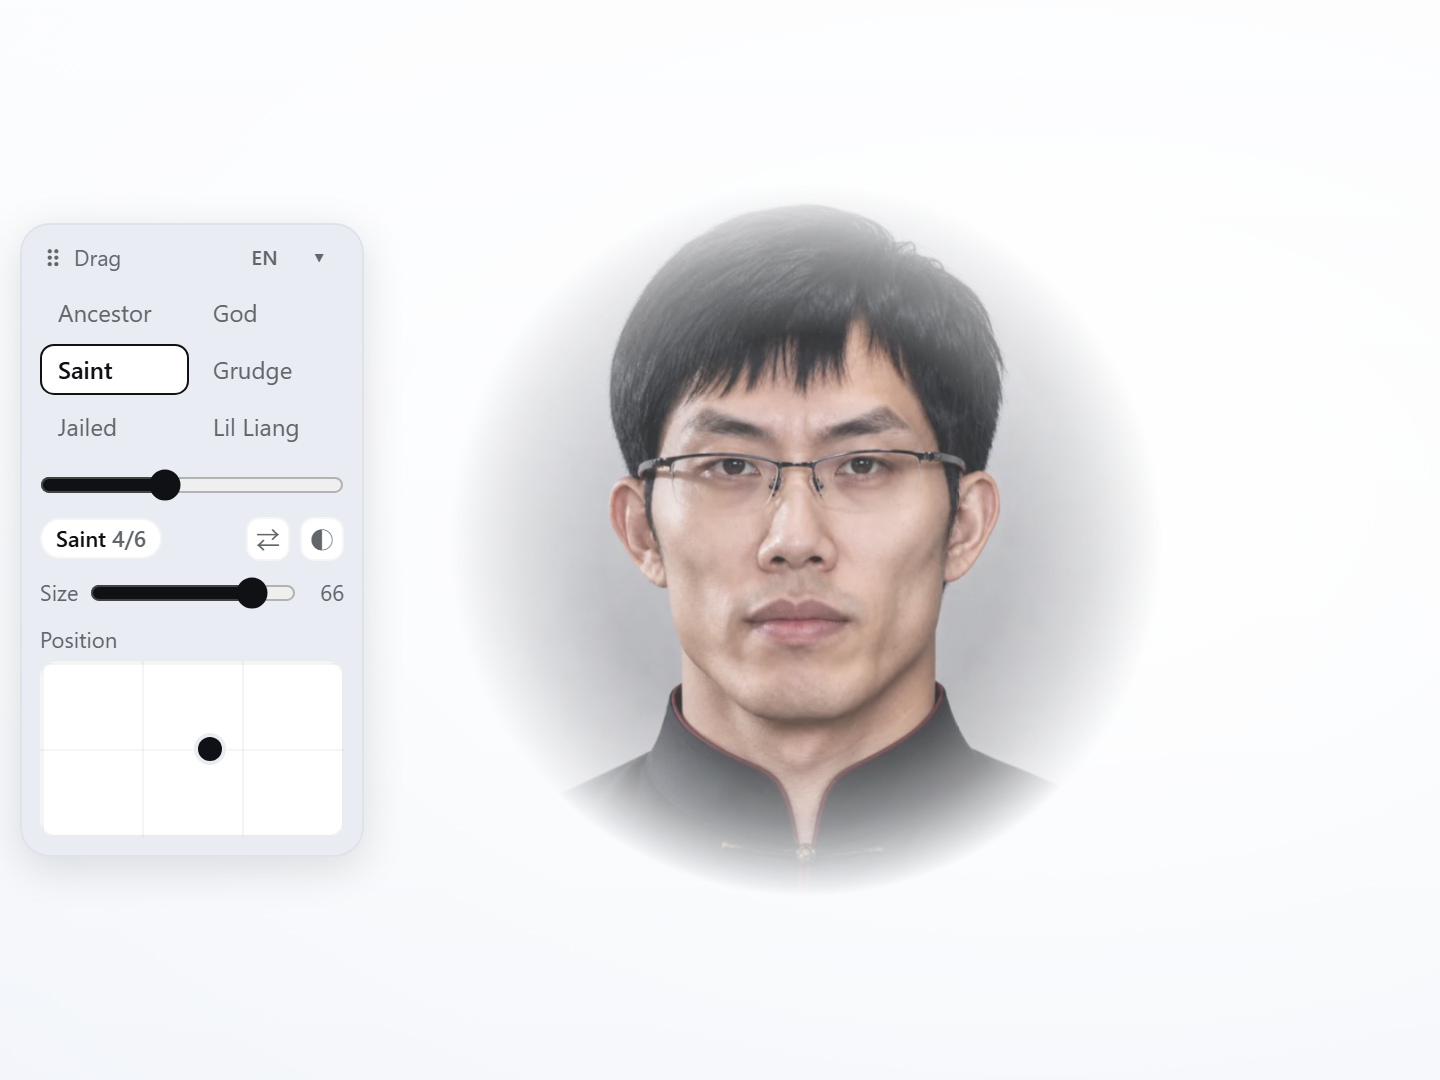
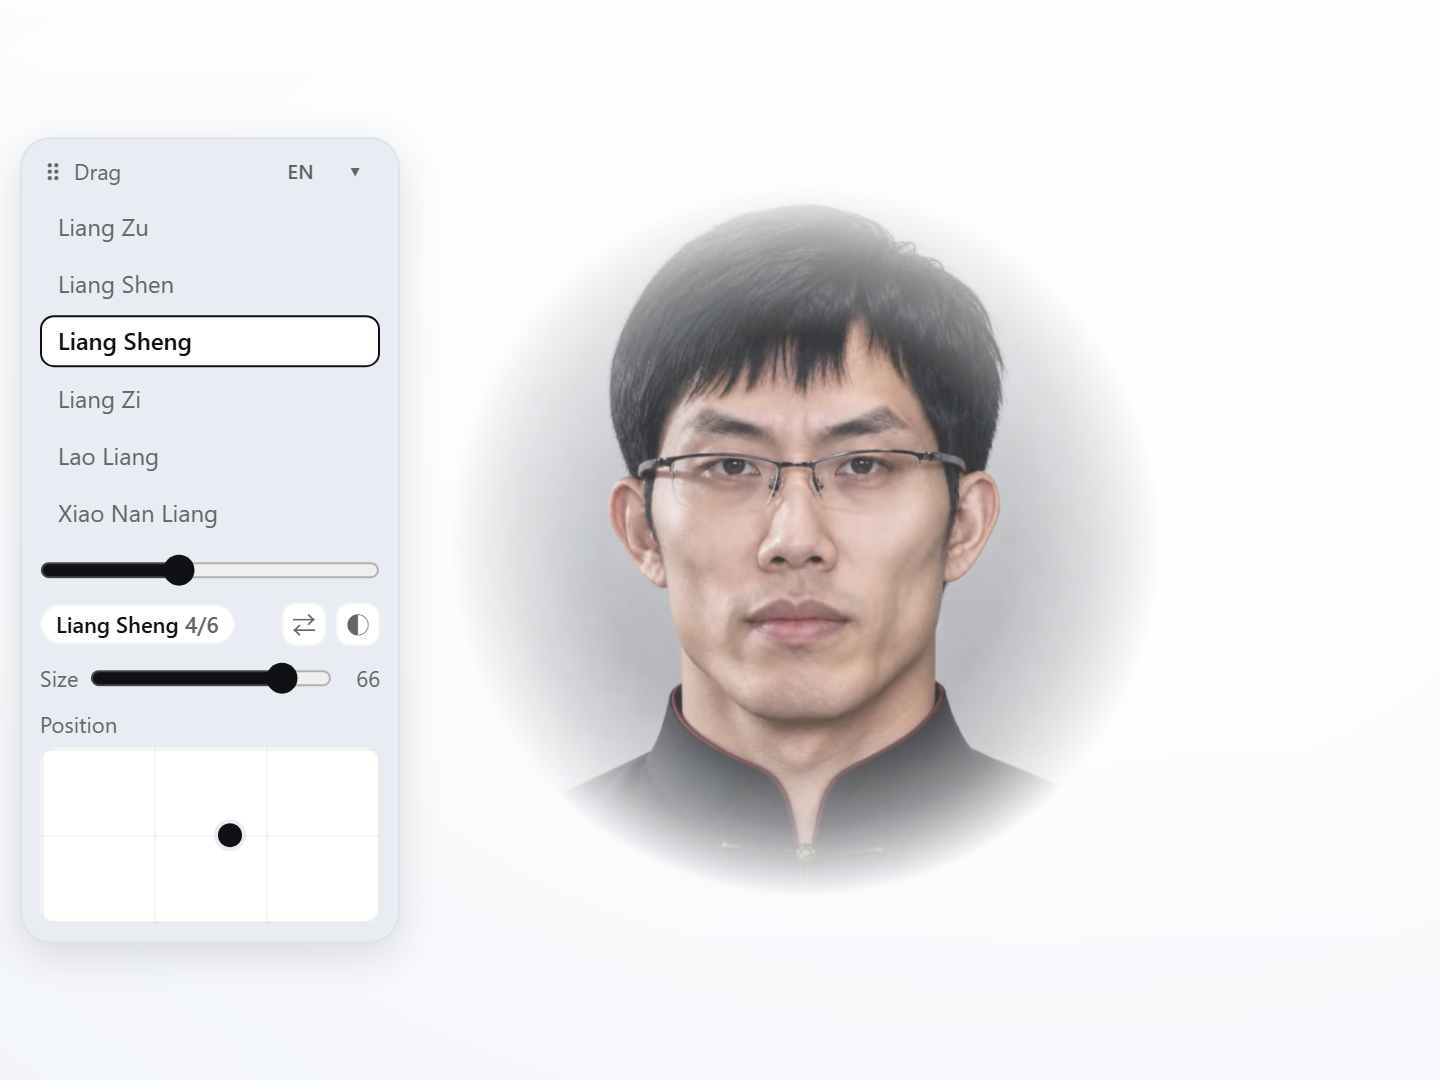
feat: 英文状态名改用拼音，英文面板改单列
- 六级状态名英文由意译改为拼音：Xiao Nan Liang / Lao Liang / Liang Zi / Liang Sheng / Liang Shen / Liang Zu
- 拼音较长，[data-lang=en] 下 chips 单列、面板 190px（收起 152px）
- 重新生成中英文界面截图
- README 中英文对照表与英文示意同步

diff --git a/client.js b/client.js
@@ -196,12 +196,12 @@ window.__ModuleLoader__.load({
       'lang.name.auto': 'Auto',
       'lang.name.zh': '中文',
       'lang.name.en': 'English',
-      'stage.0': 'Lil Liang',
-      'stage.1': 'Jailed',
-      'stage.2': 'Grudge',
-      'stage.3': 'Saint',
-      'stage.4': 'God',
-      'stage.5': 'Ancestor',
+      'stage.0': 'Xiao Nan Liang',
+      'stage.1': 'Lao Liang',
+      'stage.2': 'Liang Zi',
+      'stage.3': 'Liang Sheng',
+      'stage.4': 'Liang Shen',
+      'stage.5': 'Liang Zu',
     };
 
     const LANG_CYCLE = ['auto', 'zh', 'en'];
@@ -291,6 +291,11 @@ window.__ModuleLoader__.load({
         gap: 0;
         padding: 7px 9px;
       }
+      /* Pinyin stage names are longer than the Chinese two/three characters, so
+         the English panel goes single-column and takes a little more width. */
+      .lbd-card[data-lang="en"] { width: 190px; }
+      .lbd-card[data-lang="en"] .lbd-chips { grid-template-columns: minmax(0, 1fr); }
+      .lbd-card[data-lang="en"][data-collapsed="true"] { width: 152px; }
       .lbd-card[data-collapsed="true"] .lbd-chips,
       .lbd-card[data-collapsed="true"] .lbd-range,
       .lbd-card[data-collapsed="true"] .lbd-meta,

diff --git a/README.md b/README.md
@@ -76,16 +76,18 @@ A  →  中  →  EN  →  A …
 - **中文 / English**：固定面板语言，覆盖 DSH 的全局设置，适合系统是英文但想用中文名字，或者反过来
 - 选择存在 `localStorage`，刷新、重启都记得
 
-六级状态名在两种语言下的对照（英文是给窄面板用的短标签，右侧是原意）：
+六级状态名在两种语言下的对照（英文界面保留拼音，这些梗翻译就没了；右侧是原意）：
 
 | 等级 | 中文 | English | 含义 |
 |---|---|---|---|
-| 1 | 小难梁 | Lil Liang | 刚入门的梁 |
-| 2 | 牢梁 | Jailed | 被关起来的梁 |
-| 3 | 梁子 | Grudge | 「结梁子」的梁 |
-| 4 | 梁圣 | Saint | 封圣的梁 |
-| 5 | 梁神 | God | 封神的梁 |
-| 6 | 梁祖 | Ancestor | 祖宗的梁 |
+| 1 | 小难梁 | Xiao Nan Liang | 刚入门的梁 |
+| 2 | 牢梁 | Lao Liang | 被关起来的梁 |
+| 3 | 梁子 | Liang Zi | 「结梁子」的梁 |
+| 4 | 梁圣 | Liang Sheng | 封圣的梁 |
+| 5 | 梁神 | Liang Shen | 封神的梁 |
+| 6 | 梁祖 | Liang Zu | 祖宗的梁 |
+
+拼音比中文名长，所以英文面板会把六个状态排成一列（面板也略宽一点），中文面板仍是两列。
 
 ### 数据
 
@@ -149,29 +151,32 @@ dsh plugin --profile desktop remove dsh-liang-backdrop
 The panel opens against the left edge, vertically centred. Drag it by the `⠿` grip, double-click to reset.
 
 ```
-⠿ Drag                        A  ▾
-┌────────┬────────┐
-│ Ancestor│  God   │  ← six stages, click to switch
-│ Saint  │ Grudge │
-│ Jailed │Lil Liang│
-└────────┴────────┘
-━━━━━●━━━━━                    ← level slider
-Saint 4/6              ⇄  ◐
-Size ━━━●━━ 42                 ← backdrop size (vmin)
+⠿ Drag                            A  ▾
+┌──────────────┐
+│ Liang Zu     │  ← six stages, click to switch
+│ Liang Shen   │
+│ Liang Sheng  │
+│ Liang Zi     │
+│ Lao Liang    │
+│ Xiao Nan Liang│
+└──────────────┘
+━━━━━●━━━━━                          ← level slider
+Liang Sheng 4/6            ⇄  ◐
+Size ━━━●━━ 42                       ← backdrop size (vmin)
 Position ┌─┬─┬─┐
-         │ │ │●┘              ← drag the knob, the portrait follows
+         │ │ │●┘                    ← drag the knob, the portrait follows
          └─┴─┴─┘
 ```
 
 | Control | What it does |
 |---|---|
-| Stage chips / slider | Six stages: Lil Liang → Jailed → Grudge → Saint → God → Ancestor |
+| Stage chips / slider | Six stages: Xiao Nan Liang → Lao Liang → Liang Zi → Liang Sheng → Liang Shen → Liang Zu |
 | `A` / `中` / `EN` | Panel language: Auto → 中文 → English |
-| `⇄` | Reverse the order (left = Ancestor, right = Lil Liang by default) |
+| `⇄` | Reverse the order (top = Liang Zu, bottom = Xiao Nan Liang by default) |
 | `◐` | Backdrop strength: faint 0.35 / medium 0.55 / strong 0.80 |
 | Size | 14–76 in `vmin` (% of the viewport's short side), default 42 |
 | Position | Drag the knob anywhere; the centre is clamped by size so the portrait always stays on screen |
-| `▾` / `▸` | Collapse / expand (collapsed shows just `⠿ Saint ▸`) |
+| `▾` / `▸` | Collapse / expand (collapsed shows just `⠿ Liang Sheng ▸`) |
 
 The backdrop hides itself below 640 px width or 520 px height.
 
@@ -188,16 +193,16 @@ Auto    中文    English   back to Auto
 - **中文 / English** pins the panel language and overrides the global setting — handy when the app is in English but you want the original Chinese names, or the other way round
 - The choice is stored in `localStorage`, so it survives reloads and restarts
 
-Stage names in both languages (the English ones are deliberately short to fit the narrow panel):
+Stage names stay in pinyin in the English UI — the puns do not survive translation — so the English panel lists them in one column instead of two:
 
 | Level | 中文 | English | Meaning |
 |---|---|---|---|
-| 1 | 小难梁 | Lil Liang | the rookie |
-| 2 | 牢梁 | Jailed | locked up |
-| 3 | 梁子 | Grudge | "to hold a grudge" |
-| 4 | 梁圣 | Saint | canonised |
-| 5 | 梁神 | God | deified |
-| 6 | 梁祖 | Ancestor | the patriarch |
+| 1 | 小难梁 | Xiao Nan Liang | the rookie |
+| 2 | 牢梁 | Lao Liang | locked up |
+| 3 | 梁子 | Liang Zi | "to hold a grudge" |
+| 4 | 梁圣 | Liang Sheng | canonised |
+| 5 | 梁神 | Liang Shen | deified |
+| 6 | 梁祖 | Liang Zu | the patriarch |
 
 ### Stored state
 
